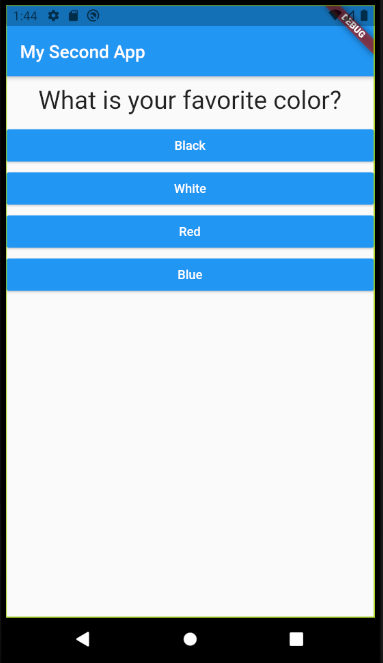
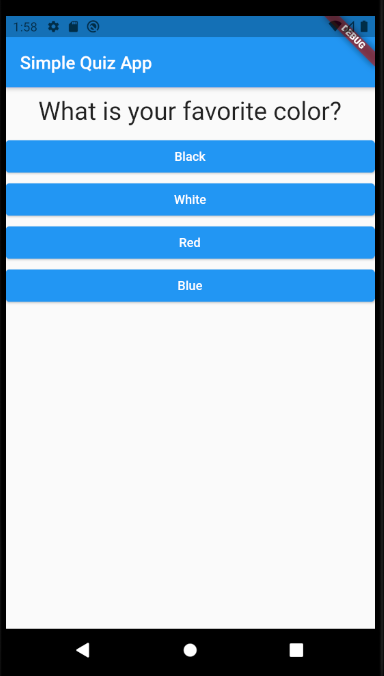
change project name and print screens

diff --git a/lib/main.dart b/lib/main.dart
@@ -69,7 +69,7 @@ class _MyappState extends State<MyApp> {
     return MaterialApp(
         home: Scaffold(
       appBar: AppBar(
-        title: Text('My Second App'),
+        title: Text('Simple Quiz App'),
       ),
       body: _questionIndex < _questions.length
           ? Quiz(

diff --git a/README.md b/README.md
@@ -1,11 +1,10 @@
 # Flutter Quiz App
- 
+
 This is a simple Quiz App.
 
 I used it to learn the Flutter structure, and i don't work at beautification that much. 
 
-<img src = 'docs/Screenshot_1.png'>
-
-<img src = 'docs/Screenshot_2.png'>
-
-
+<row>
+    <img src = 'docs/Screenshot_1.png'>
+    <img src = 'docs/Screenshot_2.png'>
+</row>
